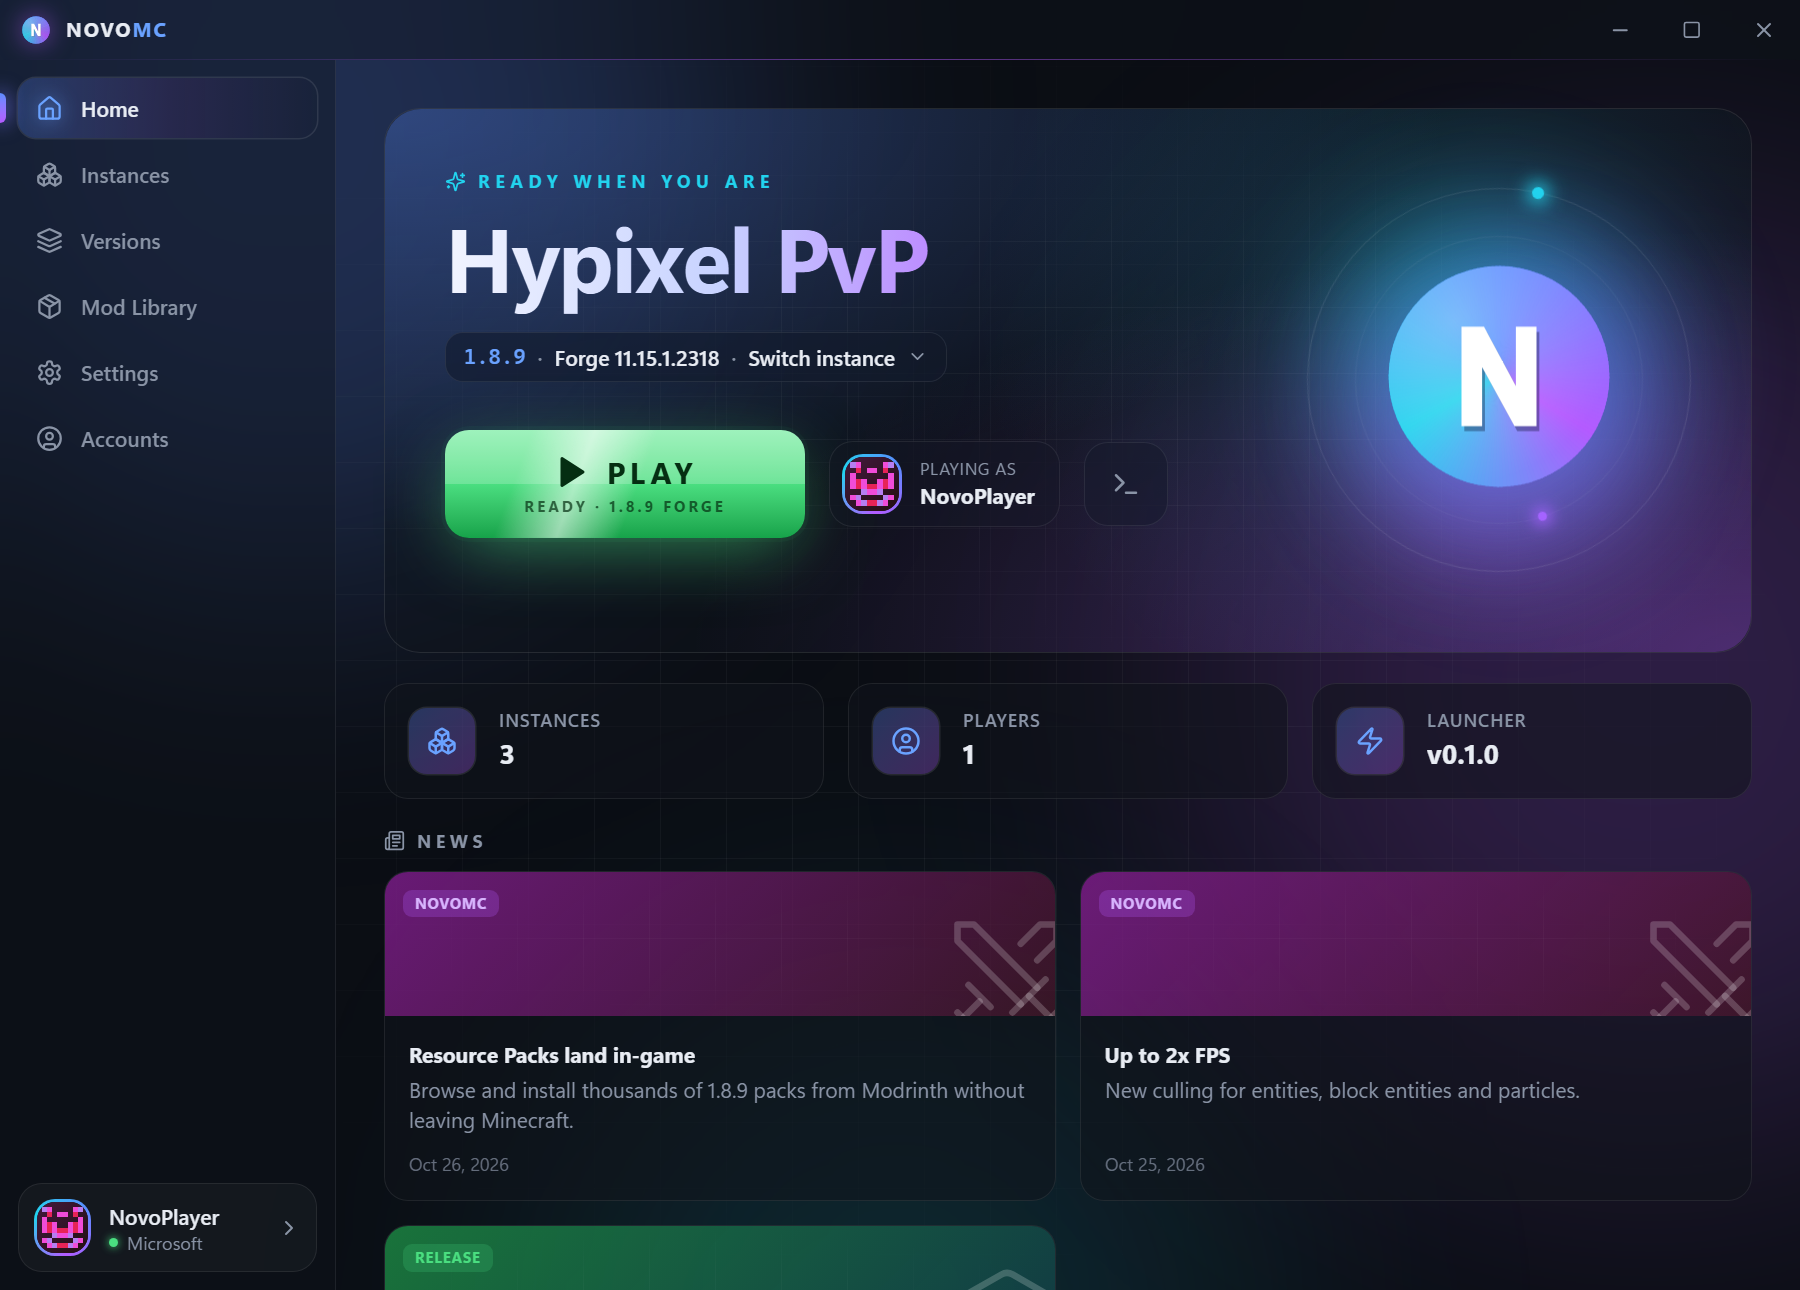
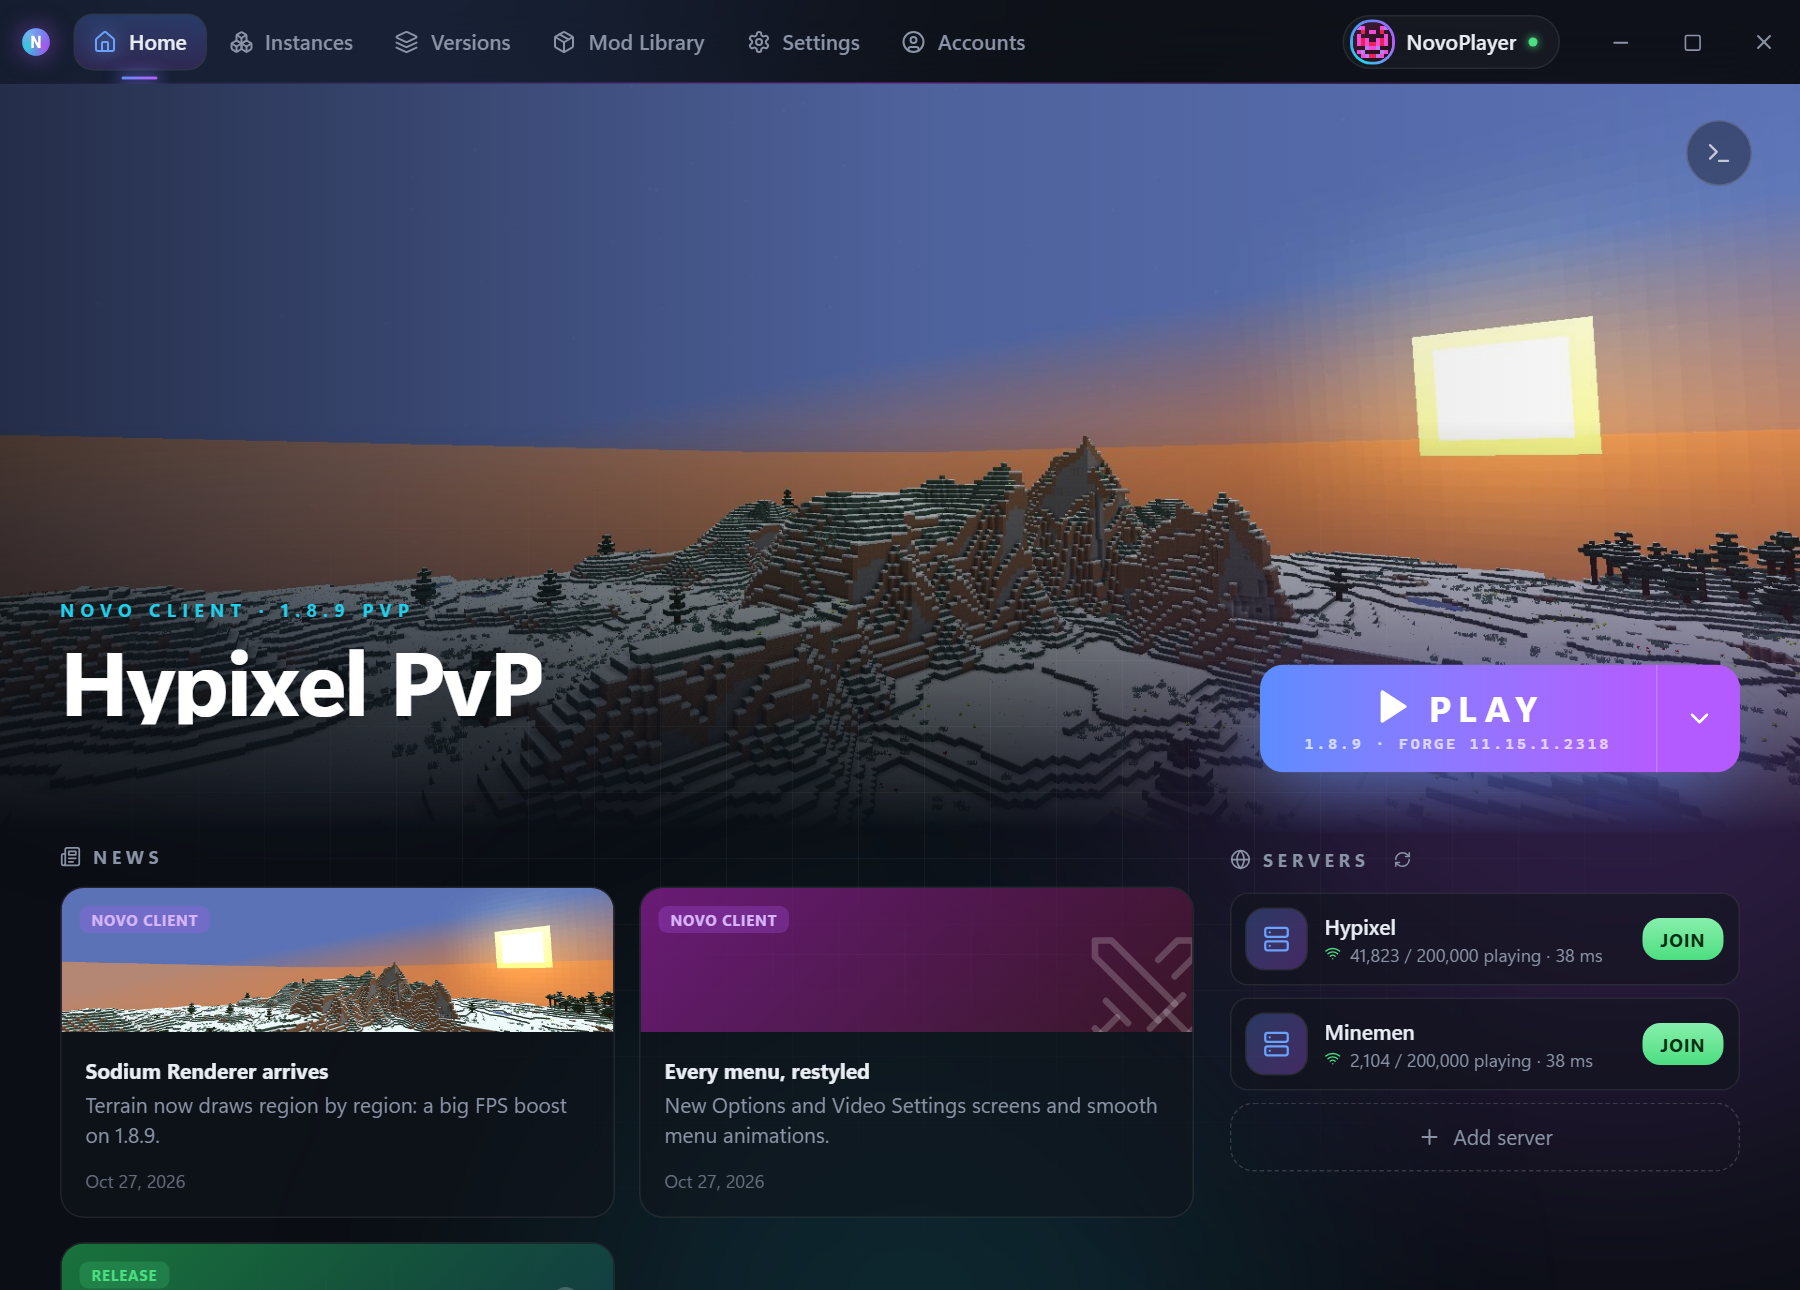
Update README screenshots for the new launcher and menus
New launcher shots (top-bar navigation, new Home), 1600x900 in-game shots
of the main menu, Mod Library, Resource Packs, Video Settings and Options.
The feature test now renders these at README size; ?page= opens a page
directly in the dev preview.

diff --git a/src/App.tsx b/src/App.tsx
@@ -50,7 +50,10 @@ function Page({
 }
 
 export default function App() {
-  const [page, setPage] = useState<PageId>('home');
+  // In development, ?page=mods (etc.) opens a page directly, for screenshots.
+  const [page, setPage] = useState<PageId>(
+    () => ((import.meta.env.DEV && new URLSearchParams(location.search).get('page')) as PageId) || 'home',
+  );
 
   // The saved accent applies from the first frame of every page.
   useEffect(() => {

diff --git a/src/lib/devMock.ts b/src/lib/devMock.ts
@@ -15,7 +15,7 @@ const instances: Instance[] = [
 
 const accounts: AccountStore = {
   activeUuid: '069a79f4-44e9-4726-a5be-fca90e38aaf5',
-  accounts: [{ uuid: '069a79f4-44e9-4726-a5be-fca90e38aaf5', username: 'Notch', kind: 'microsoft' }],
+  accounts: [{ uuid: '069a79f4-44e9-4726-a5be-fca90e38aaf5', username: 'NovoPlayer', kind: 'microsoft' }],
 };
 
 const news: NewsItem[] = [

diff --git a/client-mod/src/main/java/com/novomc/client/DevFeatureTest.java b/client-mod/src/main/java/com/novomc/client/DevFeatureTest.java
@@ -15,7 +15,8 @@ import net.minecraftforge.fml.common.gameevent.TickEvent;
  * only active with {@code -Dnovomc.features=true}: builds glass walls, a grass
  * slope and snow around plants, turns every feature on, screenshots the scene
  * and each Video Settings section, and quits. First it screenshots the themed
- * vanilla menus (servers, worlds, Options, Controls, Language).
+ * menus (main menu, servers, worlds, Options, Controls, Language, Mods,
+ * Resource Packs) at 1600x900, as used in the README.
  */
 public final class DevFeatureTest {
     private static final String[] FEATURES = {"sodium", "fast_math", "smart_animations", "lazy_chunks",
@@ -39,15 +40,27 @@ public final class DevFeatureTest {
         if (!started) {
             menuTicks++;
             switch (menuTicks) {
+                case 1:
+                    // README-sized screenshots.
+                    try {
+                        org.lwjgl.opengl.Display.setDisplayMode(new org.lwjgl.opengl.DisplayMode(1600, 900));
+                    } catch (org.lwjgl.LWJGLException e) {
+                        throw new IllegalStateException(e);
+                    }
+                    break;
+                case 30: shot("menu-main"); break;
                 case 40: mc.displayGuiScreen(new net.minecraft.client.gui.GuiMultiplayer(new GuiMainMenu())); break;
                 case 50: shot("menu-multiplayer"); mc.displayGuiScreen(new net.minecraft.client.gui.GuiSelectWorld(new GuiMainMenu())); break;
                 case 60: shot("menu-worlds"); mc.displayGuiScreen(new net.minecraft.client.gui.GuiOptions(new GuiMainMenu(), mc.gameSettings)); break;
                 case 70: shot("menu-options"); mc.displayGuiScreen(new net.minecraft.client.gui.GuiControls(new GuiMainMenu(), mc.gameSettings)); break;
                 case 80: shot("menu-controls"); mc.displayGuiScreen(new net.minecraft.client.gui.GuiLanguage(new GuiMainMenu(), mc.gameSettings, mc.getLanguageManager())); break;
-                case 90: shot("menu-language"); mc.displayGuiScreen(new GuiMainMenu()); break;
+                case 90: shot("menu-language"); mc.displayGuiScreen(new com.novomc.client.gui.GuiModules(new GuiMainMenu())); break;
+                case 100: shot("menu-mods"); mc.displayGuiScreen(new com.novomc.client.gui.GuiResourcePacks(new GuiMainMenu())); break;
+                // Pack icons come from Modrinth; give them a few seconds.
+                case 160: shot("menu-packs"); mc.displayGuiScreen(new GuiMainMenu()); break;
                 default: break;
             }
-            if (menuTicks > 100) {
+            if (menuTicks > 170) {
                 started = true;
                 mc.gameSettings.pauseOnLostFocus = false;
                 WorldSettings ws = new WorldSettings(42L, WorldSettings.GameType.CREATIVE, false, false, WorldType.FLAT);
@@ -60,6 +73,8 @@ public final class DevFeatureTest {
             return;
         }
         ticks++;
+        // Keep the "Press E" tutorial toast out of the screenshots.
+        mc.guiAchievement.clearAchievements();
         switch (ticks) {
             case 20:
                 for (String id : FEATURES) {

diff --git a/README.md b/README.md
@@ -6,7 +6,7 @@
 
 **The performance Minecraft launcher with a built-in 1.8.9 PvP client.**
 
-More FPS, 79 built-in mods, thousands of resource packs, one click to play.
+More FPS, 80 built-in mods, thousands of resource packs, one click to play.
 
 [![Download](https://img.shields.io/github/v/release/foreski/NovoMC?label=Download&style=for-the-badge&color=5B8CFF)](https://github.com/foreski/NovoMC/releases/latest)
 [![Downloads](https://img.shields.io/github/downloads/foreski/NovoMC/total?style=for-the-badge&color=B45BFF)](https://github.com/foreski/NovoMC/releases)
@@ -49,7 +49,12 @@ Novo Client ships its own performance mods for 1.8.9: no OptiFine, no third-part
 In our lobby stress test (400 armor stands, ~1,900 chests and skulls, constant particles) Novo Client went from
 **126 FPS to 259 FPS: +105%**. Every optimization can be switched off if you prefer vanilla.
 
-## 🎮 79 mods, built in
+<p align="center">
+  <img src="docs/images/ingame-video.png" width="49%" alt="Video Settings with the Sodium renderer and performance options" />
+  <img src="docs/images/ingame-options.png" width="49%" alt="Novo Client's own Options screen" />
+</p>
+
+## 🎮 80 mods, built in
 
 Everything a PvP player wants, ready the moment you join a server. Toggle mods and change their
 settings in-game (Right Shift) or from the launcher, and drag any HUD element exactly where you want it.
@@ -81,7 +86,8 @@ Minecraft. Search, sort by popular or newest, filter by PvP, Simplistic, Vanilla
 
 ## 🚀 A launcher that stays out of your way
 
-- **One-click play.** Pick an instance and press Play; Novo Client downloads the game, Forge and the right Java for you.
+- **One-click play.** A big Play button with your instances one click away; Novo Client downloads the game, Forge and the right Java for you.
+- **Live news** from the Novo Client team right on Home, with pictures.
 - **Every Minecraft version**, straight from Mojang's servers and checked file by file.
 - **Instances** with their own worlds, mods, packs, memory and Java. Duplicate one in a click.
 - **Microsoft accounts** for online servers and Realms, with your real skin. Sign-ins are stored in
